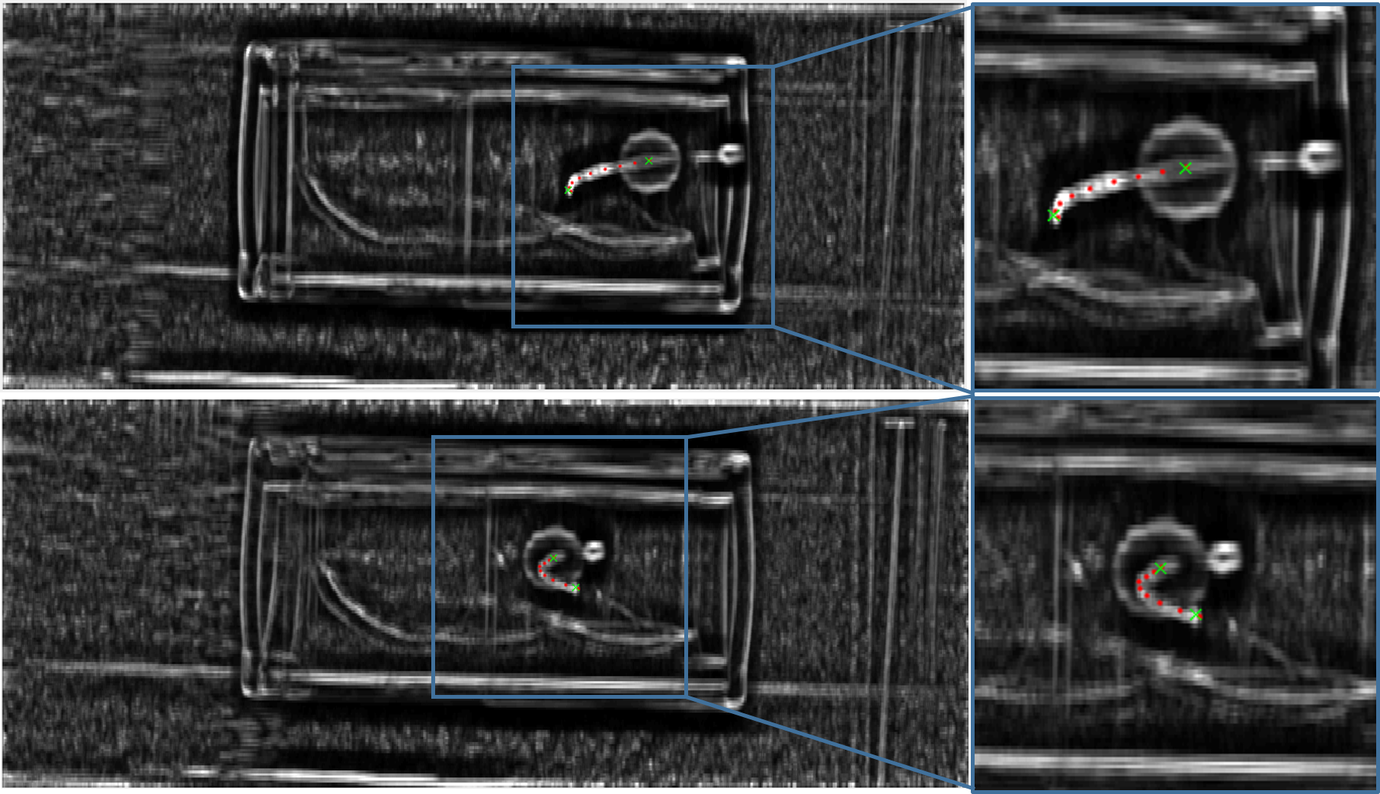
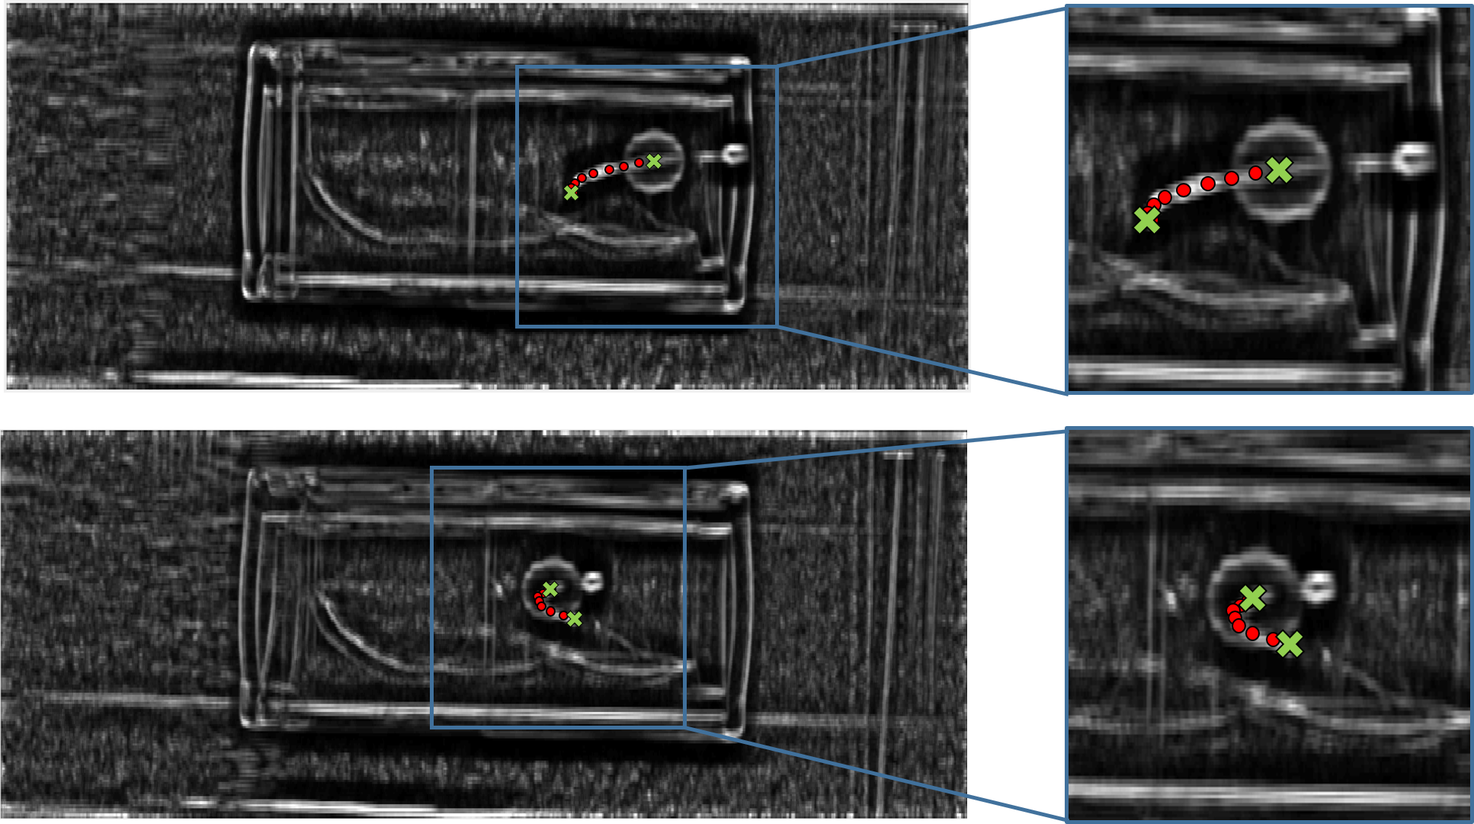
sent to LJ

diff --git a/main.tex b/main.tex
@@ -30,6 +30,7 @@
 \usepackage{caption}
 \usepackage{cite}
 \usepackage{spreadtab}
+\usepackage{algorithm,algorithmic}
 
 \captionsetup[table]{position=bottom}
 
@@ -95,23 +96,23 @@ Works by Wu et al. \cite{wu2013automatic} and Engh et al. \cite{engh2010percutan
 Ben-David et al. \cite{ben2018robotic} describe a robotic system for flexible needle insertion under CT guidance. A dual guiding mechanism is composed of a driver which advances the needle while a positioning unit steers it during insertion. A pre-planned 3D trajectory is executed and amended during the insertion based on full repeated CT scans.
 Earlier work by Glozman et al. \cite{glozman2007image} describes robotic flexible needle steering and a needle-tissue mechanical interaction model, where feedback is based on 2D in-plane imaging of the needle.
 
-Most works in needle localization from medical images use ultrasound as the imaging modality. A robotically positioned 2D transducer perpendicular to the needle tip is by presented Vrooijink et al. \cite{vrooijink2013real}, where needle-induced image artifacts are taken advantage of in order to localize the needle tip in the imaged plane, while the transducer is continuously re-positioned to maintain its orientation relative to the needle tip. An approach combining both ultrasound and CT fluoroscopy is presented in \cite{marinetto2017integration}, where a free-hand ultrasound probe and C-arm are registered using an external optical tracker to produce a fused image in which the needle can be tracked.
+Most works in needle localization from medical images use ultrasound as the imaging modality. A robotically positioned 2D transducer perpendicular to the needle tip is presented Vrooijink et al. \cite{vrooijink2013real}, where needle-induced image artifacts are taken advantage of in order to localize the needle tip in the imaged plane, while the transducer is continuously re-positioned to maintain its orientation relative to the needle tip. An approach combining both ultrasound and CT fluoroscopy is presented in \cite{marinetto2017integration}, where a free-hand ultrasound probe and C-arm are registered using an external optical tracker to produce a fused image in which the needle can be tracked.
 
-The following works describe specific methods to localize the needle path in reconstructed CT images:
-Hou et al. \cite{huo2015shape} reconstruct the bevel-tip flexible needle path from full CT slices by localizing points at which the needle intersects slice planes, and fitting a four-order polynomial to the collection of 3D points.
-Yaniv et al. \cite{yaniv2010needle} describe a system in which embedded electromagnetic fiducials are used for needle tracking under CT guidance, with operator input required to identify the needle tip in a full CT scan taken in-situ. These methods rely on acquisition of full repeat scan and reconstruction of the image for each localization of the needle. This approach carries the associated cost in radiation dose for the patient. In the following section, we present a novel imageless method for flexible needle localization in projection space using fractional scanning, which promises to reduce the radiation dose associated with each needle localization.
+The following works describe specific methods to localize the needle shape in reconstructed CT images:
+Hou et al. \cite{huo2015shape} reconstruct the bevel-tip flexible needle trajectory from full CT slices by localizing points at which the needle intersects slice planes, and fitting a four-order polynomial to the collection of 3D points.
+Yaniv et al. \cite{yaniv2010needle} describe a system in which embedded electromagnetic fiducials are used for needle tracking under CT guidance, with operator input required to identify the needle tip in a full CT scan taken in-situ. These methods rely on acquisition of full repeat scan and reconstruction of the image for each localization of the needle. This approach carries the associated cost in radiation dose for the patient. In the following section, we present a novel image-less method for flexible needle localization in projection space using fractional scanning, which promises to reduce the radiation dose associated with each needle localization.
 
 \section{Method}
 
-We describe next an extension to flexible needles of our previous method \cite{medan2017reduced} for volume image-less rigid needle and patient tracking in interventional CT procedures based on fractional CT scanning. Similarly to our previous method, we begin by computing a sinogram-space rigid registration of the patient position in the CT scanner coordinate frame between a baseline scan without a needle, and a repeat scan with a needle introduced. The repeat scan is performed by sampling sparsely in the view angle domain (fractional scanning) and without reconstructing the CT image, while the baseline scan is assumed to be a full scan (sampled densely in the view angle domain). We use projection difference images (shown in fig. \ref{proj_diff_fig}), which are calculated by subtracting registered reprojected baseline scan images from the sparse set of repeat projection images. These highlight the differences between scans, which in our case is assumed to be the needle. The needle path is then traced in 3D space using only the projection difference images. The stages of our method are outlined below:
+We describe next an extension to flexible needles of our previous method \cite{medan2017reduced} for volume image-less rigid needle and patient tracking in interventional CT procedures based on fractional CT scanning. Similarly to our previous method, we begin by computing a sinogram-space rigid registration of the patient position in the CT scanner coordinate frame between a baseline scan without a needle, and a repeat scan with a needle introduced. The repeat scan is performed by sampling sparsely in the view angle domain (fractional scanning) and without reconstructing the CT image, while the baseline scan is assumed to be a full scan (sampled densely in the view angle domain). We use projection difference images (shown in Fig. \ref{proj_diff_fig}), which are calculated by subtracting registered reprojected baseline scan images from the sparse set of repeat projection images. These highlight the differences between scans, which in our case is assumed to be the needle. The needle trajectory is then traced in 3D space using only the projection difference images. The stages of our method are outlined below:
 \begin{enumerate}
 \item \textit{Fractional scanning}. A fractional repeat scan is obtained with the needle in place. The full baseline scan and fractional repeat scan are registered using our sinogram space rigid registration method \cite{medan2017sparse}.
 \item \textit{Projection difference}. Using the obtained rigid registration, the projection difference images are calculated by applying the rigid transformation to the baseline scan volume, forward projection, and subtracting from corresponding repeat scan projection images. The images are then post-processed to enhance features that are locally similar to lines.
 \item \textit{Spherical marker localization}. we obtain a 3D localization of a spherical marker attached to the needle at a known distance from the tip, using the projection difference images.
-\item \textit{Incremental needle path tracing}. starting from the center of the marker obtained in the previous stage, we incrementally trace the needle path in 3D space using the projection difference images.
+\item \textit{Incremental needle trajectory tracing}. starting from the center of the marker obtained in the previous stage, we incrementally trace the needle trajectory in 3D space using the projection difference images.
 \item \textit{Display/feedback}. the current location of the needle with respect to the baseline scan 3D image is displayed and/or used as feedback for further driving the needle toward the target.
 \end{enumerate}
-Steps 1-5 are repeated each time the needle is further inserted during the intervention, until the tip localization shows the desired target structure inside the patient is reached. Optionally, full CT scans for image reconstruction can be acquired during the procedure as needed. Our method uses the same sparse projection sampling pattern both for registration and for needle localization, avoiding additional scanning and image reconstruction so the radiation dose is a fraction of that required in image based methods. This allows frequent needle insertion and localization for feedback and accuracy without excessive radiation dose.
+Steps 1-5 are repeated each time the needle is further inserted during the intervention, until the tip localization shows the desired target structure in the patient's anatomy is reached. Optionally, full CT scans for image reconstruction can be acquired during the procedure as needed. Our method uses the same sparse projection sampling pattern both for registration and for needle localization, avoiding additional scanning and image reconstruction so the radiation dose is a fraction of that required in image based methods. This allows frequent needle insertion and localization for feedback and accuracy without excessive radiation dose.
 
 The rest of this section is organized as follows.
 Section \ref{markerloc} summarizes the step for localizing the spherical marker in 3D space.
@@ -123,22 +124,41 @@ First, the 2D centers of the projected spherical marker are roughly localized in
 Then, the 2D projected marker centers in each projection difference image are refined by optimizing a cost function which takes into account the image gradients of the marker's surface.
 Finally, the 3D position of the marker center $s$ is calculated by solving an inverse problem using the known projection geometry of the CT and the localized marker centers.
 
-\subsection{Incremental path tracing} \label{inctracing}
+\subsection{Incremental trajectory tracing} \label{inctracing}
 
-The path of the needle in 3D space is estimated by incrementally establishing a series of equidistant bezier curve control points along the path of the needle in 3D space $p_1, p_2, ..., p_i$, starting from the marker center $p_1=s$, which are used to construct a 3D curve $C_i$ tracing the path of the needle from the center of the spherical marker toward the tip, where $i$ is the number of control points in the incremental process. 
+The trajectory of the needle in 3D space is estimated by incrementally establishing a series of equidistant bezier curve control points along the trajectory of the needle in 3D space $p_1, p_2, ..., p_i$ which are used to construct a 3D curve $C_i$ tracing the curvilinear shape of the needle from the center of the spherical marker toward the tip, where $i$ is the number of control points in the incremental process. The sequence of control points is initialized with four co-linear, equidistant points starting from the marker center $p_1=s$, and with successive distance $\Gamma$ along an initial direction determined by optimization of a cost function detailed in the following paragraph. $\Gamma$ is a fixed parameter for segment length, and four is the minimal number of control points required to calculate a bezier curve. The algorithm is summarized as follows:
 
-\begin{enumerate}
- \item Starting from the center of the spherical marker, the initial direction of the first needle segment is determined in 3D space using its 2D projections onto the projection difference images, by optimizing a cost function which is designed to attain a minimum when the projection difference images contain line segment in the projected direction. Four control points are placed at regular intervals along the initial segment.
- \item Starting from the end of the previous segment, the next segment direction is determined in 3D space in a similar manner, and one control point is placed at the new segment end.
- \item The process is repeated and the accumulated control points are used to evaluate a bezier curve in 3D space such that the sum squared distances of the control points from the curve is minimized.
- \item Once the length of the evaluated curve exceeds the known distance between the tip and the center of the spherical marker, the last segment is shortened accordingly, with the last point representing the tip localization.
-\end{enumerate}
+%\begin{enumerate}
+ %\item Starting from the center of the spherical marker, the initial direction of the first needle segment is determined in 3D space using its 2D projections onto the projection difference images, by optimizing a cost function which is designed to attain a minimum when the projection difference images contain line segment in the projected direction. Four control points are placed at regular intervals along the initial segment.
+ %\item Starting from the end of the previous segment, the next segment direction is determined in 3D space in a similar manner, and one control point is placed at the new segment end.
+ %\item The process is repeated and the accumulated control points are used to evaluate a bezier curve in 3D space such that the sum squared distances of the control points from the curve is minimized.
+ %\item Once the length of the evaluated curve exceeds the known distance between the tip and the center of the spherical marker, the last segment is shortened accordingly, with the last point representing the tip localization.
+%\end{enumerate}
 
-In each iteration a new point $p_{i+1}(\hat{n}) = p_i + \Gamma \hat{n}$ is sought, where $\Gamma$ is a fixed parameter for segment length, and $\hat{n}$ is a direction to be determined via optimization of a cost function detailed below.
+\begin{algorithm}
+\caption{Needle trajectory tracing}
+\begin{algorithmic}
+  \STATE $s\leftarrow$ localize spherical marker
+  \STATE $\hat{n}_1 \leftarrow$ estimate initial needle direction
+  \STATE $p_1, p_2, p_3, p_4 \leftarrow$ initialize from $s$ along $\hat{n}_1$
+  \STATE $L\leftarrow 3\Gamma$ 
+  \STATE $i\leftarrow 4$
+  \WHILE{$L < L_{marker,tip}$}
+    \STATE $\hat{n}_{i} \leftarrow$ estimate needle direction starting from $p_i$
+    \STATE $p_{i+1} \leftarrow p_i + \Gamma \hat{n}_{i}$
+    \STATE $C_{i+1}\leftarrow$ bezier curve from $p_1, ..., p_{i+1}$
+    \STATE $L\leftarrow length(C_{i+1})$ 
+    \STATE $i\leftarrow i+1$
+  \ENDWHILE
+  \STATE adjust $p_i$ such that $length(C_i) = L_{marker,tip}$
+\end{algorithmic}
+\end{algorithm}
+
+In each iteration a new point $p_{i+1}(\hat{n}) = p_i + \Gamma \hat{n}$ is sought and $\hat{n}$ is a direction to be determined via optimization of a cost function detailed below.
 A 3D curve $C_{i+1}[\hat{n}]$ is obtained from the control points $p_1, p_2, ..., p_i, p_{i+1}(\hat{n})$, and projected onto each of the $K$ view angles projection difference images to obtain projected curves $P_j C_{i+1}[\hat{n}] = c_{i+1}^j[\hat{n}]$ where $j=1,...,K$ is the view angle index and $P_j$ is the projection operator for view $j$.
-The direction $\hat{n}$ is obtained by optimizing a cost function designed to attain a minimum when the projection of the curve $C_{i+1}$ onto the set of projection difference images follows the needle path traced in the images:
+The direction $\hat{n}$ is obtained by optimizing a cost function designed to attain a minimum when the projection of the curve $C_{i+1}$ onto the set of projection difference images follows the needle trajectory traced in the images:
 \[ \Psi_i(\theta, \phi) = -\sum_{j=1}^K{\int_{r \in c_{i+1}^j[\hat{n}(\theta, \phi)]} {I_j(r)dl}} \]
-where $ \theta, \phi$ are spherical coordinates, $ \hat{n}(\theta, \phi) $ is the conversion from spherical coordinates to unit vector $ \hat{n} $, and $r$ is the 2D coordinate along the projected path $c_{i+1}^j[\hat{n}]$ in projection difference image $I_j$. 
+where $ \theta, \phi$ are spherical coordinates, $ \hat{n}(\theta, \phi) $ is the conversion from spherical coordinates to unit vector $ \hat{n} $, and $r$ is the 2D coordinate along the projected trajectory $c_{i+1}^j[\hat{n}]$ in projection difference image $I_j$. The projection difference image is signed, therefore pixels with large positive values correspond to coordinates in which the needle passes in the repeat scan but is absent in the baseline, and the needle segment corresponds to a high intensity section of the difference image.
 Accordingly, the orientation of the $i$-th segment is obtained as $(\theta_i^*, \phi_i^*) = \textsf{argmin}_{\theta, \phi} \Psi_i ( \theta, \phi)$. Then, a new control point $p_{i+1}$ is added to the series of established control points $p_1, p_2, ..., p_i$ using the relation:
 $$ p_{i+1} = p_i + \Gamma \hat{n}(\theta_i^*, \phi_i^*) $$
 
@@ -148,7 +168,7 @@ The incremental process is stopped once the length of the 3D curve $C_{i+1}$ exc
 
 \section{Results}
 
-To demonstrate our method we conducted an experiment consisting of flexible needles inserted into an abdomen phantom (CIRS model 57 Triple Modality 3D Abdominal Phantom) and scanned using GE Discovery CT750HD scanner at GE Healthcare Haifa (see fig. \ref{long_needle_fig}). The needles used were: a long 16 gauge (1.65mm outer diameter) needle, and short 22 gauge (0.72mm outer diameter) needle. For the long needle, the marker center was fixed at 235mm from the tip, and for the short needle at 135mm (figures \ref{long_needle_fig} and \ref{short_needle_fig} respectively).
+To demonstrate our method we conducted an experiment consisting of flexible needles inserted into an abdomen phantom (CIRS model 57 Triple Modality 3D Abdominal Phantom) and scanned using GE Discovery CT750HD scanner at GE Healthcare Haifa (see Fig. \ref{long_needle_fig}). The needles used were: a long 16 gauge (1.65mm outer diameter) needle, and short 22 gauge (0.72mm outer diameter) needle. For the long needle, the marker center was fixed at 235mm from the tip, and for the short needle at 135mm (figures \ref{long_needle_fig} and \ref{short_needle_fig} respectively).
 The reconstructed image size is 800$\times$800$\times$144 voxels, with spatial resolution of 0.58$\times$0.58$\times$1.25 mm$^3$. The detector array consists of 885 elements scanned at 984 views at regular intervals in the range [0$^{\circ}$ , 360$^{\circ}$), where four slices were acquired in each full revolution. The data was re-binned from fan-beam to parallel rays representation of the projections.
 
 At first a scan of the empty scanner bed was performed so that its sinogram can be subtracted from the following scans (this is done since the scanner bed does not undergo the same rigid movement as the phantom). Then, a full (i.e. dense sampling of view angles) baseline scan of the phantom was acquired, without the needle present. At each subsequent scan, the needle with attached spherical marker was inserted at a different location or different depth, the entire phantom was rotated by up to 5$^\circ$ about an arbitrary axis and/or translated by up to 5cm, and a full scan was acquired again. Sparse scanning was simulated by allowing the algorithm to access only a small subset of view angles.
@@ -171,20 +191,20 @@ At first a scan of the empty scanner bed was performed so that its sinogram can 
 \begin{figure}[b]
 \centering
 \includegraphics[width=8cm]{projection_diff_images.png}
-\caption{\small{Projection difference images for two views from one scan of the short needle. the green crosses indicate ground truth center of marker and tip; red dots indicate the control points established in the incremental needle trajectory reconstruction.}}
+\caption{\small{Projection difference images for two views from one scan of the short needle (left), and zoom in on the needle in each image (right). the green crosses indicate ground truth center of marker and tip; red dots indicate the control points established in the incremental needle trajectory reconstruction.}}
 \label{proj_diff_fig}
 \end{figure}
 
 The full baseline scan was registered to each sparse scan with needle inserted, using Radon-space rigid registration. The registration accuracy was evaluated as the root-mean-square of differences between voxel coordinates transformed by the calculated registration and by image-space registration of the reconstructed images. 
-A sparse set of 24 evenly spaced view angles in the range [0$^\circ$,180$^\circ$) was used for Radon-space registration and needle path reconstruction as previous experiments \cite{medan2017reduced} with a straight needle showed this selection offered a good trade-off between robustness and potential dose reduction.
-The marker center ground truth was obtained via manual localization on the reconstructed images, and the path ground truth was traced in 3D image space by a similar method to the one described above for projection space - namely, incremental tracing of short segments to establish control points based on difference image, and bezier curve reconstruction in 3D. The tip ground truth was determined as the point on the needle trace found at the known tip-marker distance. The trajectory error was evaluated as the root-mean-squared distance of points along the reconstructed curve to the nearest point on the ground-truth curve.
+A sparse set of 24 evenly spaced view angles in the range [0$^\circ$,180$^\circ$) was used for Radon-space registration and needle trajectory reconstruction as previous experiments \cite{medan2017reduced} with a straight needle showed this selection offered a good trade-off between robustness and potential dose reduction. The segment length parameter $\Gamma$ was set to 15mm.
+The marker center ground truth was obtained via manual localization on the reconstructed images, and the trajectory ground truth was traced in 3D image space manually by placing control points based on a volumetric difference image, and bezier curve reconstruction in 3D. The tip ground truth was determined as the point on the needle trace found at the known tip-marker distance. The trajectory error was evaluated as the root-mean-squared distance of points along the reconstructed curve to the nearest point on the ground-truth curve.
 
-Table \ref{results_table} summarizes the results of needle tip localization for the 7 scans in the dataset. One of the scans (L3) shows a large tip localization error due to the needle trajectory being very close to in-plane with the axial plane (see fig. \ref{multislices_fig}). In our method, long needle segments that are in-plane lead to inaccurate estimation of the trajectory since the projections of such segments are observed as horizontal lines in the projection difference images regardless of the orientation withing the plane. This imposes a limitation encountered previously in our work on straight needles \cite{medan2017reduced}, where in-plane insertion of the needle should be avoided to enable the recovery of the needle orientation as an intersection of non-parallel planes.
+Table \ref{results_table} summarizes the results of needle tip localization for the 7 scans in the dataset. One of the scans (L3) shows a large tip localization error due to the needle trajectory being very close to in-plane with the axial plane (see Fig. \ref{multislices_fig}). In our method, long needle segments that are in-plane lead to inaccurate estimation of the trajectory since the projections of such segments are observed as horizontal lines in the projection difference images regardless of the orientation withing the plane. This imposes a limitation encountered previously in our work on straight needles \cite{medan2017reduced}, where in-plane insertion of the needle should be avoided to enable the recovery of the needle orientation as an intersection of non-parallel planes.
 
 Running times of 200-250 seconds were observed on Intel i7 CPU running unoptimized Matlab code. To allow our method to be used in a clinical setting, parallelization of computations on GPU will be required in order to bring the running time down to several seconds. In the projection difference calculation stage, the projection difference images can be calculated in parallel. Additionally, in each round of control point addition, the operations on each projection difference image can be parallelized to further reduce the running time.
 
 \section{Discussion}
-Our method extends the novelty of imageless projection-space localization from rigid to flexible needles, allowing the potential of dose reduction in a larger range of interventional CT procedures. The localization can be displayed as visual feedback to the radiologist on the baseline scan, which is free from artifacts due to the needle, allowing an unobstructed view of the target tissue.
+Our method extends the novelty of image-less projection-space localization from rigid to flexible needles, allowing the potential of dose reduction in a larger range of interventional CT procedures. The localization can be displayed as visual feedback to the radiologist on the baseline scan, which is free from artifacts due to the needle, allowing an unobstructed view of the target tissue.
 
 \begin{figure*}
 \centering
@@ -203,7 +223,7 @@ The study itself is limited to several scans of an abdomen phantom, with the fra
 
 \section{Conclusions}
 We have described a flexible needle extension of our method for needle and patient tracking in interventional CT procedures, based on fractional CT scanning without image reconstruction.
-Our method accurately traces a flexible needle's 3D trajectory by following its path in projection space for a sparse set of views. Starting from a spherical marker attached to it at a known distance from the tip, it traces the path to the tip without reconstructing the CT image.
+Our method accurately traces a flexible needle's 3D trajectory by following its shape in projection space for a sparse set of views. Starting from a spherical marker attached to it at a known distance from the tip, it traces the trajectory to the tip without reconstructing the CT image.
 
 The main advantages of our method are:
 1) accurate flexible needle trajectory and needle tip localization without image reconstruction;

diff --git a/results.tex b/results.tex
@@ -22,22 +22,22 @@ S3 & 1.5 & 0.9 & 2.2 & 0.9\\
 \hline
 \hline
 L & 
-0.9 \pm\hspace{0.1cm} 0.4 & 
-1.0 \pm\hspace{0.1cm} 0.7 & 
-2.7 \pm\hspace{0.1cm} 1.1 & 
-0.7 \pm\hspace{0.1cm} 0.2\\
+0.9 $\pm\hspace{0.04cm}$ 0.4 & 
+1.0 $\pm\hspace{0.04cm}$ 0.7 & 
+2.7 $\pm\hspace{0.04cm}$ 1.1 & 
+0.7 $\pm\hspace{0.04cm}$ 0.2\\
 \hline
 S & 
-1.4 \pm\hspace{0.1cm} 0.2 &  
-1.2 \pm\hspace{0.1cm} 0.3 & 
-2.0 \pm\hspace{0.1cm} 0.5 &  
-0.7 \pm\hspace{0.1cm} 0.2\\
+1.4 $\pm\hspace{0.04cm}$ 0.2 &  
+1.2 $\pm\hspace{0.04cm}$ 0.3 & 
+2.0 $\pm\hspace{0.04cm}$ 0.5 &  
+0.7 $\pm\hspace{0.04cm}$ 0.2\\
 \hline
 ALL & 
-1.1 \pm\hspace{0.1cm} 0.4 &  
-1.0 \pm\hspace{0.1cm} 0.5 &  
-2.4 \pm\hspace{0.1cm} 0.9 &  
-0.7 \pm\hspace{0.1cm} 0.2\\
+1.1 $\pm\hspace{0.04cm}$ 0.4 &  
+1.0 $\pm\hspace{0.04cm}$ 0.5 &  
+2.4 $\pm\hspace{0.04cm}$ 0.9 &  
+0.7 $\pm\hspace{0.04cm}$ 0.2\\
 \hline
 \end{tabular}
 \caption{\small{Summary of experimental results. L/S stands for long/short needle, respectively.
